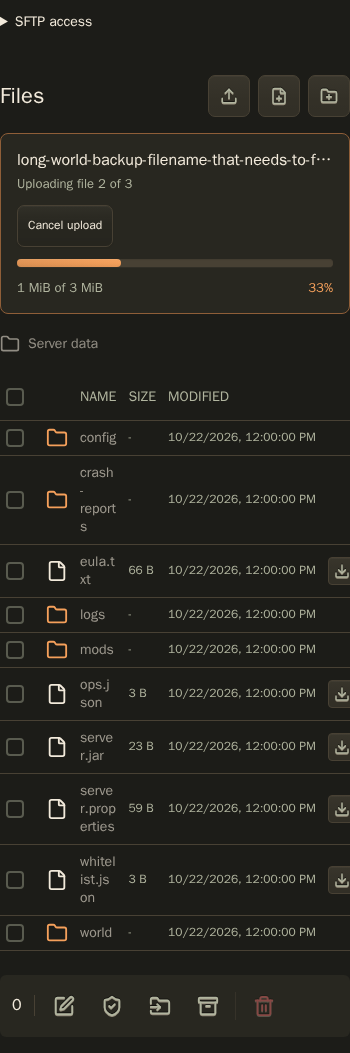
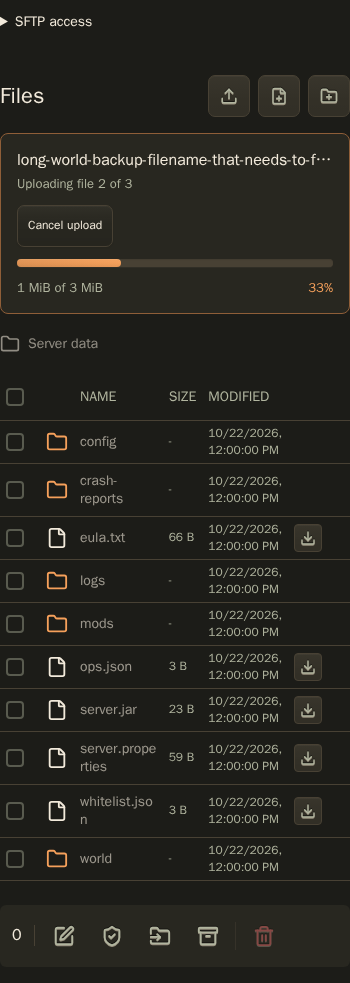
fix: allow date columns to wrap in narrow tables
Allow Files Modified and Jobs Created dates to wrap at natural boundaries while retaining existing spacing, typography, arrow positions, and column visibility. Add mobile date-column coverage and refresh wrapping-only screenshots.

diff --git a/e2e/file-mobile-layout.spec.ts b/e2e/file-mobile-layout.spec.ts
@@ -1,0 +1,85 @@
+import { test, expect } from "./fixtures";
+import { login } from "./screens";
+
+test.use({
+  isMobile: true,
+  hasTouch: true,
+  deviceScaleFactor: 3,
+  locale: "en-US",
+});
+
+for (const width of [360, 390, 412]) {
+  test(`file dates wrap and remain visible at ${width}px`, async ({ page }) => {
+    await login(page);
+    await page.setViewportSize({ width, height: 915 });
+    const modified = "2026-12-28T23:59:59Z";
+    await page.route("**/api/v1/servers/survival/files", (route) =>
+      route.fulfill({
+        json: {
+          server_id: "survival",
+          path: "/",
+          entries: [
+            {
+              name: "world",
+              kind: "directory",
+              size: 0,
+              modified_at: modified,
+            },
+            {
+              name: "long-world-backup-filename-that-needs-to-fit-on-a-small-screen.tar.gz",
+              kind: "file",
+              size: 123456789,
+              modified_at: modified,
+            },
+            {
+              name: "server.properties",
+              kind: "file",
+              size: 1234,
+              modified_at: modified,
+            },
+          ],
+        },
+      }),
+    );
+    await page.goto("/#servers/survival/files");
+    const browser = page.getByRole("region", {
+      name: "File browser",
+      exact: true,
+    });
+    const table = browser.getByRole("table");
+    const dates = table.locator("time");
+    await expect(dates).toHaveCount(3);
+    await expect(
+      table.getByRole("columnheader", { name: "Modified", exact: true }),
+    ).toBeVisible();
+    await expect(table.locator("td.table-date").first()).toHaveCSS(
+      "white-space",
+      "normal",
+    );
+    for (const date of await dates.all()) {
+      await expect(date).toBeVisible();
+      await expect(date).toHaveAttribute("datetime", modified);
+    }
+    expect(
+      await dates
+        .first()
+        .evaluate((element) => element.getClientRects().length),
+    ).toBeGreaterThan(1);
+    await expect(
+      browser.getByRole("checkbox", { name: "Select all items", exact: true }),
+    ).toBeVisible();
+    await expect(
+      browser.getByRole("button", {
+        name: "Download server.properties",
+        exact: true,
+      }),
+    ).toBeVisible();
+    if (width === 412) {
+      await page.setViewportSize({ width: 1400, height: 900 });
+      await expect(table.locator("td.table-date").first()).toHaveCSS(
+        "white-space",
+        "nowrap",
+      );
+    }
+  });
+}

diff --git a/e2e/date-columns.spec.ts b/e2e/date-columns.spec.ts
@@ -1,0 +1,45 @@
+import { test, expect, pageFixture } from "./fixtures";
+import { jobFixture } from "./jobFixtures";
+import { login } from "./screens";
+
+test("date columns allow wrapping across history lists and drawers on mobile", async ({
+  page,
+}) => {
+  await login(page);
+  await page.route("**/api/v1/jobs?*", (route) =>
+    route.fulfill({ json: pageFixture([jobFixture()]) }),
+  );
+  await page.setViewportSize({ width: 360, height: 800 });
+  const cases = [
+    { route: "jobs", selector: ".jobs-table .server-job-created" },
+    { route: "notifications", selector: ".notification-content time" },
+    { route: "audit", selector: "main .data-table tbody td:first-child" },
+    {
+      route: "schedules",
+      selector:
+        "main .data-table:has(> caption:text-is('Execution history')) tbody td:first-child",
+    },
+    {
+      route: "schedules/nightly-restart",
+      selector: "dialog .data-table tbody td:first-child",
+    },
+    {
+      route: "servers/survival/activity",
+      selector: ".activity-table tbody td:first-child",
+    },
+    { route: "servers/survival/backups", selector: ".backup-created" },
+    {
+      route: "dashboard",
+      selector: "table:has(> caption:text-is('Recent backups')) time",
+    },
+  ];
+  for (const { route, selector } of cases) {
+    await test.step(route, async () => {
+      await page.goto(`/#${route}`);
+      const date = page.locator(selector).first();
+      await expect(date).toBeVisible();
+      await expect(date).toContainText(/\d/);
+      await expect(date).toHaveCSS("white-space", "normal");
+    });
+  }
+});

diff --git a/web/src/components/servers/ServerFileBrowser.tsx b/web/src/components/servers/ServerFileBrowser.tsx
@@ -1018,7 +1018,7 @@ export function ServerFileBrowser({
                     {t("serverFileBrowser.fileType")}
                   </th>
                   <th className="table-fit">{t("common.size")}</th>
-                  <th className="table-fit">
+                  <th className="table-fit table-date">
                     {t("serverFileBrowser.modified")}
                   </th>
                   <th
@@ -1109,7 +1109,7 @@ export function ServerFileBrowser({
                         ? formatBytes(entry.size)
                         : EMPTY_VALUE}
                     </td>
-                    <td className="table-fit file-entry-meta">
+                    <td className="table-fit file-entry-meta table-date">
                       <time dateTime={entry.modified_at}>
                         {new Date(entry.modified_at).toLocaleString()}
                       </time>

diff --git a/web/src/components/jobs/JobRow.tsx b/web/src/components/jobs/JobRow.tsx
@@ -138,7 +138,7 @@ export function JobRow({
           )}
         </div>
       </td>
-      <td className="server-job-created">
+      <td className="server-job-created table-date">
         <time dateTime={new Date(job.created_at * 1000).toISOString()}>
           {new Date(job.created_at * 1000).toLocaleString(i18n.language)}
         </time>

diff --git a/web/src/components/table/table.css b/web/src/components/table/table.css
@@ -226,6 +226,11 @@
 }
 
 @container (max-width: 42rem) {
+  .data-table :is(th, td).table-date {
+    white-space: normal;
+    overflow-wrap: normal;
+  }
+
   .data-table.table-stacked {
     display: block;
 
